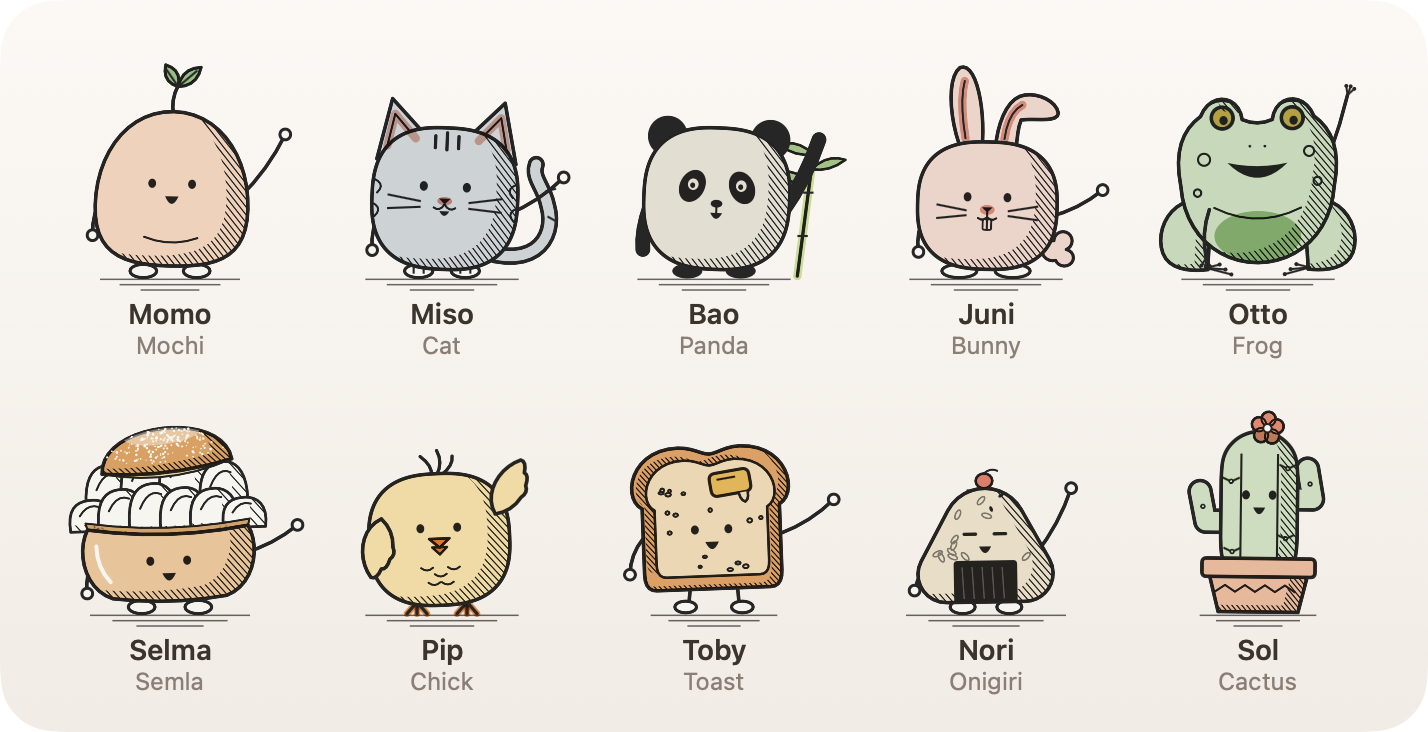
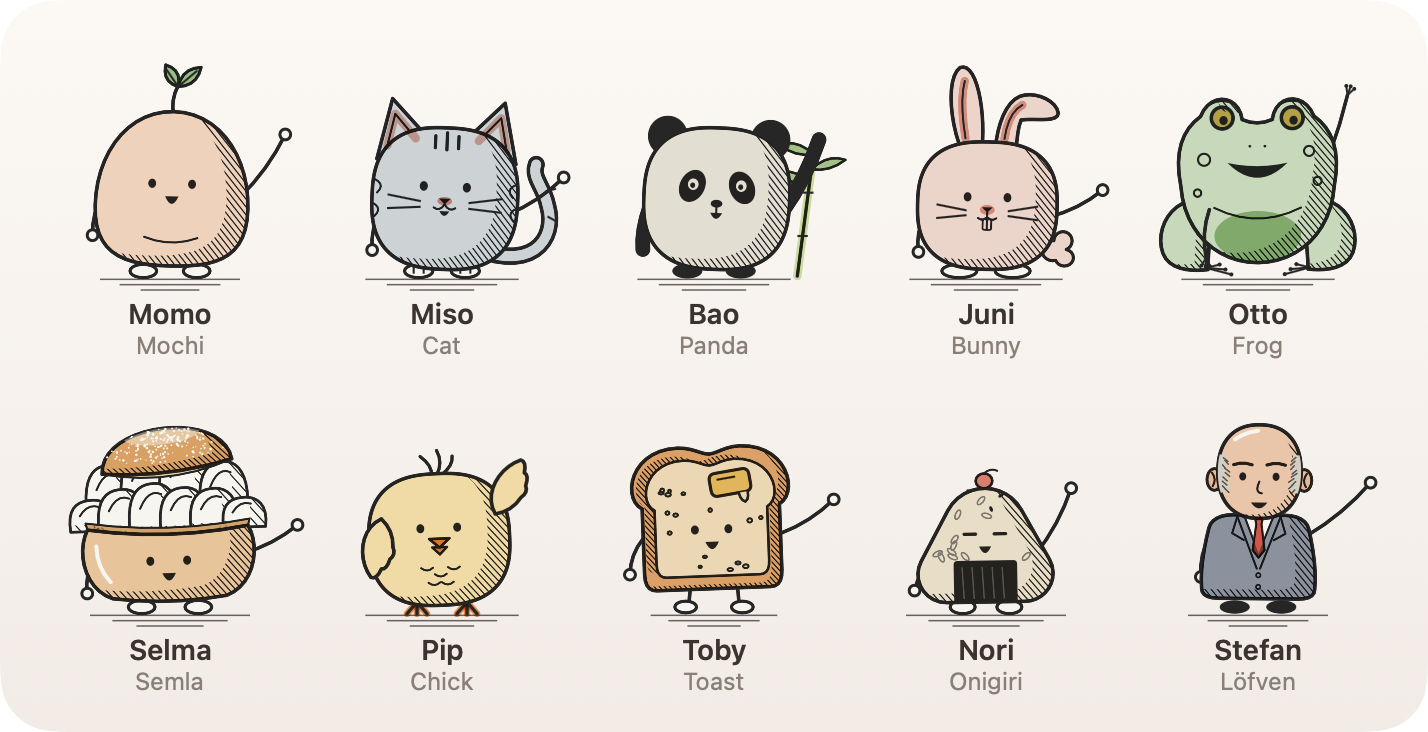
Stefan Löfven replaces the cactus in the Stretch Crew (1.12.0)
- StefanArt: suit with lapels, shirt and red tie, a bald shiny crown with
  short grey hair at the sides drawn as strokes, ears, brows and black shoes.
- Name "Stefan", second line "Löfven"; the cactus and its branch arm style
  are gone.

Changed region(s): [[0.8319, 0.541, 0.9552, 0.8415], [0.8319, 0.8716, 0.9244, 0.9617]]

diff --git a/Sources/Crew.swift b/Sources/Crew.swift
@@ -46,7 +46,7 @@ enum CrewArtwork {
     static let mochi = MochiArt()
     static let all: [Buddy: CrewArt] = [
         .mochi: mochi, .cat: CatArt(), .panda: PandaArt(), .bunny: BunnyArt(), .frog: FrogArt(),
-        .semla: SemlaArt(), .chick: ChickArt(), .toast: ToastArt(), .onigiri: OnigiriArt(), .cactus: CactusArt(),
+        .semla: SemlaArt(), .chick: ChickArt(), .toast: ToastArt(), .onigiri: OnigiriArt(), .stefan: StefanArt(),
     ]
 }
 
@@ -858,72 +858,127 @@ struct OnigiriArt: CrewArt {
     func detail(_ f: CrewFrame) -> Path { plum }
 }
 
-// MARK: - Cactus
+// MARK: - Stefan
 
-struct CactusArt: CrewArt {
-    let accent = Color(hex: 0xB9D3A8)
-    let detailColor = Color(hex: 0xE58F78)
-    let body = Path(roundedRect: CGRect(x: 77, y: 66, width: 46, height: 92), cornerRadius: 23)
+/// Stefan Löfven, drawn the same way as the rest of the crew: a dark suit, a red tie, a shiny crown with grey
+/// hair at the sides, and noodle arms like everyone else.
+struct StefanArt: CrewArt {
+    let accent = Color(hex: 0x46536C)            // the suit, dark navy
+    let detailColor = Color(hex: 0xD45A4C)       // the tie
+    let body: Path                               // the suit
     let wash: Path
     let hatches: [Hatch]
-    let pot = makePath { p in p.move(to: pt(70, 150)); p.addLine(to: pt(130, 150)); p.addLine(to: pt(124, 174)); p.addLine(to: pt(76, 174)); p.closeSubpath() }
-    let rim = Path(roundedRect: CGRect(x: 66, y: 142, width: 68, height: 11), cornerRadius: 2.5)
-    let potHatch: Hatch
-    let potTint: Path
-    let petals: Path
-    let flowerOutline: Path
-    let shoulders = [pt(80, 120), pt(120, 106)]
-    let arm = ArmStyle.branch
-    let groundWidth: CGFloat = 70
-    var anchor: CGPoint { pt(100, 174) }
+    let shirt: Path
+    let lapels: Path
+    let tie: Path
+    let head: Path
+    let headHatch: Hatch
+    let ears: [Path]
+    let hair: Path
+    let hairStrands: Path
+    let skin: Path
+    let shoulders = [pt(71, 128), pt(129, 128)]
+    let arm = ArmStyle.noodle(length: 26, hand: .loop)
+    let armOffset = -12.0
+    let brow: CGPoint? = pt(113, 88)
+    let reachExtra: CGFloat = 30
+    let groundWidth: CGFloat = 84
 
     init() {
-        wash = body.subtracting(pot).subtracting(rim)
-        hatches = [Hatch.shadow(of: body, shift: 10)]
-        potHatch = Hatch.shadow(of: pot, shift: 9, spacing: 2.3)
-        potTint = pot.union(rim)
-        var petals = Path()
-        for k in 0..<5 {
-            let a = Double(k) / 5 * 2 * .pi - .pi / 2
-            petals.addPath(oval(104 + CGFloat(cos(a)) * 5.6, 64 + CGFloat(sin(a)) * 5.6, 8.6, 8.6))
+        let suit = makePath { p in
+            p.move(to: pt(70, 124))
+            p.addCurve(to: pt(84, 116), control1: pt(71, 119), control2: pt(77, 116))
+            p.addLine(to: pt(116, 116))
+            p.addCurve(to: pt(130, 124), control1: pt(123, 116), control2: pt(129, 119))
+            p.addCurve(to: pt(134, 160), control1: pt(133, 136), control2: pt(135, 150))
+            p.addQuadCurve(to: pt(124, 166), control: pt(134, 166))
+            p.addLine(to: pt(76, 166))
+            p.addQuadCurve(to: pt(66, 160), control: pt(66, 166))
+            p.addCurve(to: pt(70, 124), control1: pt(65, 150), control2: pt(67, 136))
         }
-        self.petals = petals
-        flowerOutline = petals.union(oval(104, 64, 8, 8))
+        body = suit
+        shirt = makePath { p in
+            p.move(to: pt(91, 116)); p.addLine(to: pt(109, 116)); p.addLine(to: pt(100, 139)); p.closeSubpath()
+        }
+        lapels = makePath { p in
+            p.move(to: pt(87, 117)); p.addLine(to: pt(99, 148))
+            p.move(to: pt(113, 117)); p.addLine(to: pt(101, 148))
+            p.move(to: pt(87, 117)); p.addLine(to: pt(84, 127)); p.addLine(to: pt(91, 131))
+            p.move(to: pt(113, 117)); p.addLine(to: pt(116, 127)); p.addLine(to: pt(109, 131))
+        }
+        tie = makePath { p in
+            p.move(to: pt(97.5, 117)); p.addLine(to: pt(102.5, 117)); p.addLine(to: pt(101.6, 121.5))
+            p.addLine(to: pt(103.6, 137)); p.addLine(to: pt(100, 141.5)); p.addLine(to: pt(96.4, 137))
+            p.addLine(to: pt(98.4, 121.5)); p.closeSubpath()
+        }
+        wash = suit.subtracting(shirt)
+        hatches = [Hatch.shadow(of: suit, shift: 12)]
+
+        let face = superellipse(cx: 100, cy: 90, a: 25, b: 28, n: 2.3)
+        head = face
+        // A narrow shadow along the edge only; any wider and it reads as stubble
+        headHatch = Hatch.shadow(of: face, shift: 5, spacing: 2.9)
+        ears = [oval(73, 95, 9, 13), oval(127, 95, 9, 13)]
+        // Short grey hair only at the sides and round the back; the crown is bare and shiny
+        let sides = makePath { p in
+            p.move(to: pt(74, 80)); p.addQuadCurve(to: pt(77, 103), control: pt(72, 92))
+            p.addLine(to: pt(82, 101)); p.addQuadCurve(to: pt(80, 80), control: pt(79.5, 90)); p.closeSubpath()
+            p.move(to: pt(126, 80)); p.addQuadCurve(to: pt(123, 103), control: pt(128, 92))
+            p.addLine(to: pt(118, 101)); p.addQuadCurve(to: pt(120, 80), control: pt(120.5, 90)); p.closeSubpath()
+        }
+        let hairShape = sides.intersection(face)
+        hair = hairShape
+        // Drawn as short strokes, without an outline, so it reads as hair and not as headphones
+        hairStrands = makePath { p in
+            var r = SeededRandom(state: 12)
+            for side: CGFloat in [-1, 1] {
+                for i in 0..<9 {
+                    let y = 81 + CGFloat(i) * 2.4 + r.next()
+                    let x = 100 + side * (23.5 - r.next() * 3 - abs(CGFloat(i) - 4) * 0.25)
+                    p.move(to: pt(x, y)); p.addLine(to: pt(x - side * (1.8 + r.next() * 1.5), y + 2.2))
+                }
+            }
+        }
+        let shine = bend(pt(85, 71), pt(91, 66.5), pt(99, 65.5)).strokedPath(StrokeStyle(lineWidth: 2.4, lineCap: .round))
+        skin = face.subtracting(hairShape).subtracting(shine)
+    }
+
+    func feet(_ pen: Pen, _ f: CrewFrame) {
+        // Polished black shoes
+        for x: CGFloat in [86, 114] { pen.solid(oval(x, 171, 18, 8)) }
     }
 
     func onBody(_ pen: Pen, _ f: CrewFrame) {
-        for x: CGFloat in [89, 111] { pen.fine(line(pt(x, 80), pt(x, 146))) }
-        for (x, y) in [(83.0, 96.0), (117.0, 88.0), (84.0, 138.0), (116.0, 130.0), (100.0, 150.0)] {
-            pen.c.stroke(oval(x, y, 2.2, 2.2), with: .color(Pen.ink), lineWidth: 1)
-            pen.fine(line(pt(x - 1.6, y - 0.6), pt(x - 4.6, y - 2)))
-            pen.fine(line(pt(x + 1.6, y - 0.6), pt(x + 4.6, y - 2)))
+        pen.paper(shirt)
+        pen.fine(shirt)
+        pen.fine(lapels)
+        pen.shape(tie, 1.3)
+        for y: CGFloat in [152, 159] { pen.c.stroke(oval(100, y, 2.6, 2.6), with: .color(Pen.ink), lineWidth: 1) }
+        for ear in ears {
+            pen.shape(ear, 1.8)
         }
+        pen.fine(bend(pt(71.5, 91), pt(74.5, 95), pt(72, 99)))
+        pen.fine(bend(pt(128.5, 91), pt(125.5, 95), pt(128, 99)))
+        pen.shape(head)
+        pen.hatch(headHatch)
+        pen.paper(hair)
+        pen.c.stroke(hairStrands, with: .color(Pen.ink.opacity(0.7)), style: StrokeStyle(lineWidth: 0.9, lineCap: .round))
     }
 
     func face(_ pen: Pen, _ f: CrewFrame) {
-        pen.eye(pt(92 + f.fx, 104), f)
-        pen.eye(pt(108 + f.fx, 104), f)
-        pen.mouth(pt(100 + f.fx, 112), f, width: 4, depth: 3)
+        let x = f.fx
+        // Thick, level brows give him his calm look
+        pen.stroke(bend(pt(84.5 + x, 86), pt(90 + x, 84), pt(95.5 + x, 86)), 1.9)
+        pen.stroke(bend(pt(104.5 + x, 86), pt(110 + x, 84), pt(115.5 + x, 86)), 1.9)
+        pen.eye(pt(90 + x, 93), f, r: 2.3)
+        pen.eye(pt(110 + x, 93), f, r: 2.3)
+        pen.fine(bend(pt(100 + x, 96), pt(97 + x, 102.5), pt(101.5 + x, 103)))
+        pen.mouth(pt(100 + x, 109), f, width: 5.5, depth: 2.6)
     }
 
-    func front(_ pen: Pen, _ f: CrewFrame) {
-        // Flower, nodding a little
-        let flower = pen.rotated(f.sway * 1.4, around: pt(104, 68))
-        flower.shape(flowerOutline, 1.6)
-        flower.c.stroke(petals, with: .color(Pen.ink), lineWidth: 1.2)
-        flower.tint(flowerOutline, detailColor)
-        flower.shape(oval(104, 64, 5, 5), 1.2)
-        // Pot with a zigzag band
-        pen.shape(pot)
-        pen.hatch(potHatch)
-        pen.shape(rim)
-        pen.fine(makePath { p in
-            p.move(to: pt(74, 162))
-            var up = true
-            for x in stride(from: 80.0, through: 126.0, by: 6.0) { p.addLine(to: pt(x, up ? 158 : 162)); up.toggle() }
-        })
-        pen.tint(potTint, Color(hex: 0xEDC0A6))
-    }
+    func detail(_ f: CrewFrame) -> Path { tie }
 
-    func detail(_ f: CrewFrame) -> Path { Path() }
+    func extras(_ f: CrewFrame) -> [(Path, Color)] {
+        [(skin, Color(hex: 0xF0CDB4)), (hair, Color(hex: 0xDAD6D0)), (ears.reduce(Path()) { $0.union($1) }.subtracting(head), Color(hex: 0xEBC0A4))]
+    }
 }

diff --git a/Sources/LineArt.swift b/Sources/LineArt.swift
@@ -108,7 +108,7 @@ struct Pen {
         m.blendMode = .multiply
         m.stroke(p, with: .color(color), style: StrokeStyle(lineWidth: width, lineCap: .round, lineJoin: .round))
     }
-    /// An outlined tube along a path: tails, cactus branches.
+    /// An outlined tube along a path, like the cat's tail.
     func tube(_ p: Path, width: CGFloat) {
         c.stroke(p, with: .color(Pen.ink), style: StrokeStyle(lineWidth: width + Pen.weight * 2, lineCap: .round, lineJoin: .round))
         c.stroke(p, with: .color(Pen.paper), style: StrokeStyle(lineWidth: width, lineCap: .round, lineJoin: .round))
@@ -213,8 +213,6 @@ enum ArmStyle {
     case bold(length: CGFloat)
     /// A closed shape (flipper, wing) drawn for the left side with the shoulder at the origin.
     case flap(Path, hatch: Hatch?, rest: Double, inFront: Bool)
-    /// A cactus branch: out to an elbow, then a segment that tilts with the pose.
-    case branch
 }
 
 /// Arms grow when raised, so hands clear the head.
@@ -280,15 +278,6 @@ func drawArm(_ pen: Pen, side: CGFloat, shoulder: CGPoint, angle: Double, art: C
         p.shape(shapePath)
         if let hatch { p.hatch(hatch) }
         p.tint(shapePath, art.accent.opacity(0.6))
-    case .branch:
-        let elbow = pt(shoulder.x + side * 12, shoulder.y)
-        let segment = 170 + (angle - 30) * 0.2
-        let tip = handPoint(from: elbow, side: side, angle: segment, length: 18)
-        let branch = makePath { $0.move(to: shoulder); $0.addLine(to: elbow); $0.addLine(to: tip) }
-        pen.tube(branch, width: 11)
-        pen.tintLine(branch, width: 11, art.accent.opacity(0.6))
-        let areole = pt((elbow.x + tip.x) / 2, (elbow.y + tip.y) / 2)
-        pen.c.stroke(oval(areole.x, areole.y, 2.2, 2.2), with: .color(Pen.ink), lineWidth: 1)
     }
 }
 

diff --git a/Sources/Buddies.swift b/Sources/Buddies.swift
@@ -2,7 +2,7 @@ import SwiftUI
 
 /// The Stretch Crew. Every member can do every move; how each one is drawn lives in Crew.swift.
 enum Buddy: String, CaseIterable, Identifiable {
-    case mochi, cat, panda, bunny, frog, semla, chick, toast, onigiri, cactus
+    case mochi, cat, panda, bunny, frog, semla, chick, toast, onigiri, stefan
 
     var id: String { rawValue }
 
@@ -18,11 +18,11 @@ enum Buddy: String, CaseIterable, Identifiable {
         case .chick: return "Pip"
         case .toast: return "Toby"
         case .onigiri: return "Nori"
-        case .cactus: return "Sol"
+        case .stefan: return "Stefan"
         }
     }
 
-    /// What they are.
+    /// What they are (or, for Stefan, his surname).
     var kind: String {
         switch self {
         case .mochi: return L("Mochi")
@@ -34,7 +34,7 @@ enum Buddy: String, CaseIterable, Identifiable {
         case .chick: return L("Chick")
         case .toast: return L("Toast")
         case .onigiri: return L("Onigiri")
-        case .cactus: return L("Cactus")
+        case .stefan: return "Löfven"
         }
     }
 
@@ -50,7 +50,7 @@ enum Buddy: String, CaseIterable, Identifiable {
         case .chick: return L("Pip the chick")
         case .toast: return L("Toby the toast")
         case .onigiri: return L("Nori the onigiri")
-        case .cactus: return L("Sol the cactus")
+        case .stefan: return "Stefan Löfven"
         }
     }
 }

diff --git a/Sources/Snapshot.swift b/Sources/Snapshot.swift
@@ -113,7 +113,7 @@ enum Snapshot {
     static func filmstrip(to path: String) {
         let rows: [(Buddy, Move, Double)] = [(.frog, .armsUp, 4.6), (.frog, .sideBend, 6.4), (.mochi, .twist, 5.6), (.cat, .lookAway, 6.4),
                                              (.semla, .armsWide, 4.8), (.chick, .hug, 3.14), (.toast, .calfRaise, 2.4), (.panda, .breathe, 8),
-                                             (.bunny, .wiggle, 1.4), (.cactus, .celebrate, 0.84), (.onigiri, .wristCircles, 1.05), (.frog, .shoulderRoll, 2.2),
+                                             (.bunny, .wiggle, 1.4), (.stefan, .celebrate, 0.84), (.onigiri, .wristCircles, 1.05), (.frog, .shoulderRoll, 2.2),
                                              (.frog, .shrug, 3.6), (.cat, .crossArm, 6.4)]
         let sheet = VStack(alignment: .leading, spacing: 0) {
             ForEach(rows.indices, id: \.self) { r in

diff --git a/docs/index.html b/docs/index.html
@@ -154,7 +154,7 @@
       <h2>The Stretch Crew</h2>
       <p class="section-lede">Ten characters drawn like small engravings, from Otto the frog to Selma the semla.
         A random one leads each break, or keep only your favourites.</p>
-      <img class="crew" src="buddies.png" width="1428" height="672" alt="Momo the mochi, Miso the cat, Bao the panda, Juni the bunny, Otto the frog, Selma the semla, Pip the chick, Toby the toast, Nori the onigiri and Sol the cactus">
+      <img class="crew" src="buddies.png" width="1428" height="672" alt="Momo the mochi, Miso the cat, Bao the panda, Juni the bunny, Otto the frog, Selma the semla, Pip the chick, Toby the toast, Nori the onigiri and Stefan Löfven">
     </section>
 
     <section id="first-launch">

diff --git a/README.md b/README.md
@@ -89,7 +89,7 @@ it: *Breathe in · 3*, *Switch sides*.
 ## The Stretch Crew
 
 <p align="center">
-  <img src="docs/buddies.png" width="640" alt="The Stretch Crew: Momo the mochi, Miso the cat, Bao the panda, Juni the bunny, Otto the frog, Selma the semla, Pip the chick, Toby the toast, Nori the onigiri and Sol the cactus">
+  <img src="docs/buddies.png" width="640" alt="The Stretch Crew: Momo the mochi, Miso the cat, Bao the panda, Juni the bunny, Otto the frog, Selma the semla, Pip the chick, Toby the toast, Nori the onigiri and Stefan Löfven">
 </p>
 
 Ten characters drawn like small engravings: one ink line, hatching for shadow and a soft wash of colour.

diff --git a/CHANGELOG.md b/CHANGELOG.md
@@ -1,5 +1,10 @@
 # Changelog
 
+## 1.12.0 – 2026-10-21
+
+- **Stefan Löfven joins the Stretch Crew** in place of Sol the cactus: a dark suit, a red tie, a shiny crown
+  with grey hair at the sides, and the same moves as everyone else.
+
 ## 1.11.0 – 2026-10-21
 
 - **The crew have names**: Momo the mochi, Miso the cat, Bao the panda, Juni the bunny, Otto the frog, Selma
